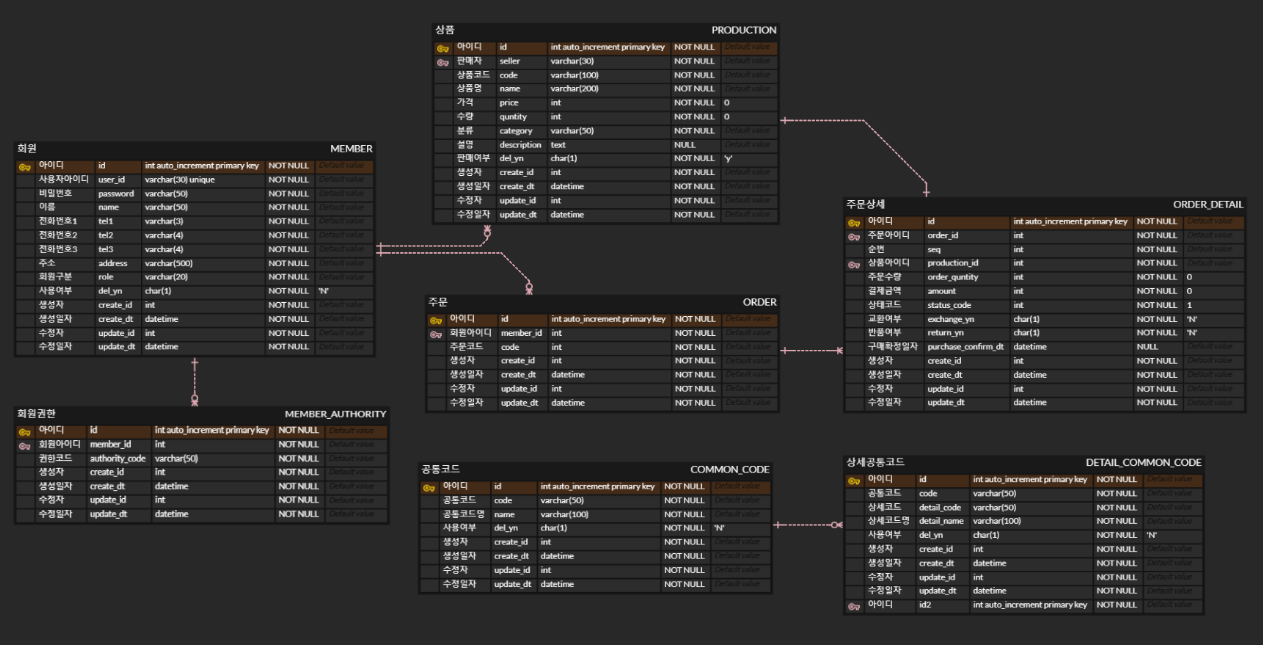
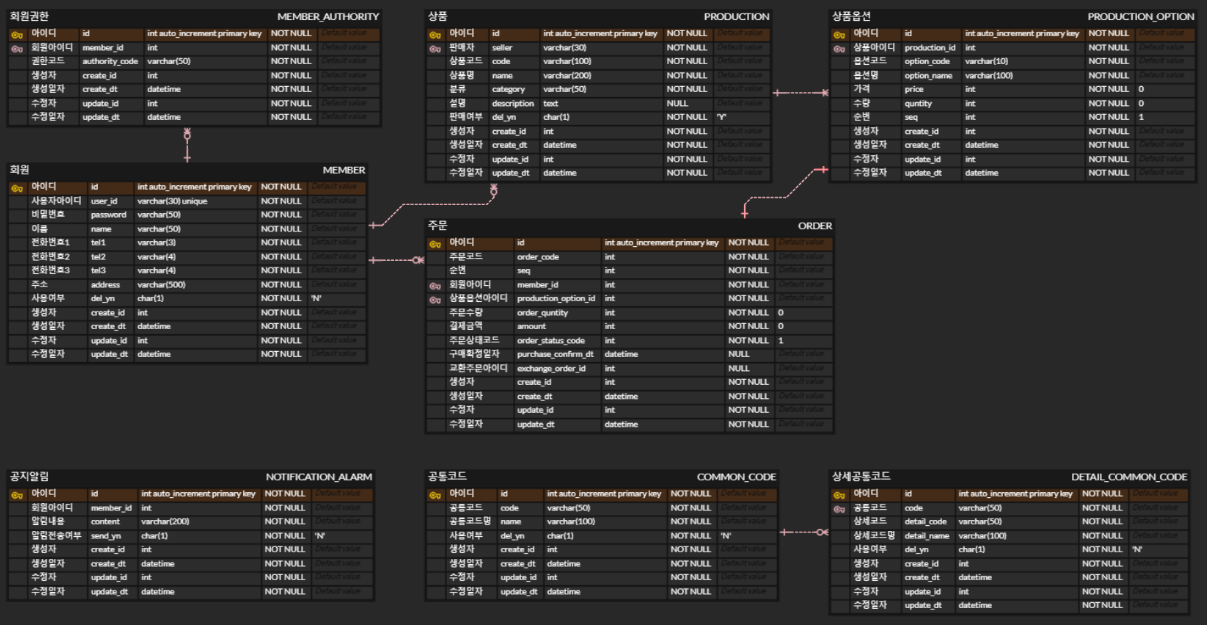
docs: 요구사항 상세정의 및 그에 따른 테이블구조변경 / 주문상태 전이과정 축소
배송, 교환, 반품 과정의 상태 변경 api만 많이 생성하는 것은 의미가 없고 기간 내 상세내용 개발불가로 인해 최소화해 진행한다.

diff --git a/README.md b/README.md
@@ -3,7 +3,7 @@
 
 ## 개요
     간단한 이커머스 서비스 제공 프로젝트.
-
+    
     Goal : 상품을 구입가능한 서버를 구축한다.
 
     Use : Spring Boot
@@ -50,22 +50,25 @@
 ## < 프로젝트 요구사항 정의 >
 ### 1. 기본구현기능
     필요 테이블 : 회원테이블(판매자,고객 동시관리), 회원별권한테이블,
-                 상품테이블, 주문테이블, 주문상세테이블, 
+                 상품테이블, 상품옵션테이블, 주문테이블, 공지알림테이블,
                  공통코드테이블, 상세공통코드테이블
 
 #### 공통
 - [ ] **로그인**
-    - [ ] 아이디, 패스워드 정보가 일치해야 로그인 가능
+    - [ ] 아이디, 패스워드 정보 일치 시 로그인 가능
     - [ ] 로그인 시 토큰 발생
     - [ ] 로그인 시 토큰을 이용한 접근권한제어
         - 로그인하지 않은 고객은 상품 조회만 가능.
         - 로그인한 회원은 상품조회 외 페이지 접근가능. (단, 권한에 따른 접근페이지 상이)
-        - JWT, Filter 이용해 간략하게 진행
+        - JWT, Filter 이용해 간략하게 진행.
 - [ ] **로그아웃**
     - [ ] 생성된 토큰 삭제로 로그아웃처리(?)
 - [ ] 회원정보 수정
+    - 수정가능 데이터 : 비밀번호, 전화번호, 주소
 - [ ] 회원정보 삭제
+    - 회원정보 삭제여부='Y'로 변경해 논리적 삭제. 
 - [ ] 회원정보 조회
+    - 회원테이블의 컬럼 전체 조회가능. 
 - [ ] 로그생성
     - ERROR 로그 파일 별도 생성.
     - ERROR 외 로그 파일 생성.
@@ -77,82 +80,116 @@
 #### 판매자
 - [ ] 셀러(회원) 가입 
     - 회원 아이디는 unique.
-    - 회원가입 시 SELLER(판매자) 권한 부여. 
+    - 전화번호 중복불가 유효성검증.
+    - 입력데이터 : 사용자아이디, 비밀번호, 이름, 전화번호, 주소.
+    - 전체데이터 필수입력.
+    - 회원가입 시 삭제여부 = 'N'
     - 회원가입 시 SELLER(판매자) 권한 부여. (권한코드 종류가 많지 않으므로 공통코드로 관리)
 - [ ] 상품 등록 
     - 셀러 회원가입 후 등록가능.
+    - 입력데이터 : 상품코드, 상품명, 가격, 수량, 분류, 설명.
+    - 설명을 제외한 데이터는 필수입력.
+    - 상품등록 시 판매여부 = 'Y'
+    - 한 상품 등록 시 대한 여러 상품옵션 등록가능.
+    - 상품분류 도메인 : 1(여성의류) / 2(남성의류) / 3(패션잡화) / 4(뷰티) / 5(전자제품) / 6(아웃도어) / 7(유아용품) / 99(기타)   
+                     공통코드로 관리.
 - [ ] 상품 수정
     - 판매자 본인이 등록한 상품만 수정가능.
+    - 가격이 변경되거나 상품명 변경 시에는 상품을 수정하지 않고 새로 등록하도록 함.
+    - 수정가능 데이터 : 수량, 설명.
 - [ ] 상품 삭제 
-    - 판매자 본인이 등록한 상품만 삭제가능. 
+    - 판매자 본인이 등록한 상품만 삭제가능.
+    - 주문 테이블이 존재하므로 데이터 유지를 위해 삭제여부='Y'로 변경해 논리적 삭제.
+    - 상품 삭제 시 상품옵션도 논리적 삭제.
 - [ ] 주문내역 조회
-    - 날짜별 시간 테이블 목록 확인가능.
+    - 일자별 결제완료된 주문내역 조회가능.
+    - pageable 이용해 5건씩 출력.
+    - 최신 주문 순 정렬.
     - 본인이 등록한 상품에 대한 주문내역만 조회가능.
 - [ ] 주문 알림 
     - 10분 마다 결제완료된 상품이 있는 판매자에게 알림 전송. (배치처리)
-
-- [ ] 주문상태 수정 (배송관련처리)
-    - 배송준비중
-    - 배송중
-- [ ] 주문상태 수정 (반품관련처리)
-    - 수거요청
-    - 수거중
-    - 반품완료
-- [ ] 주문상태 수정 (교환관련처리)
-    - 수거요청
-    - 수거중
-    - 배송중
-    - 교환완료
+    - 판매자에게 알림을 전송하기 위해 공지테이블에 결제완료된 주문 건 수를 포함한 알림저장.
+    - ex) '상품명(상품코드)에 대한 3건의 주문이 있습니다.'
+- [ ] 주문상태수정 - 배송중 (배송관련처리)
+    - 주문상태 도메인 : 1(결제완료) / 2(배송중) / 3(배송완료) / 4(구매확정) / 5(결제취소)
+                     11(교환요청) / 12(교환완료)      
+                     21(반품요청) / 22(반품완료)      
+                     공통코드로 관리.
+    - 판매자 본인의 판매물품에 대한 결제완료된 주문에 대해 배송가능.
+    - 주문확인 후 상품에 대한 배송한 경우 판매자는 주문상태코드를 배송완료로 변경.
+- [ ] 주문상태수정 - 배송완료 (배송관련처리)
+  - 판매자 본인의 판매물품에 대한 배송중인 주문에 대해 배송완료가능.
+  - 배송중인 주문에 대해 판매자는 주문상태코드를 배송완료로 변경.
+- [ ] 주문상태수정 - 반품완료 (반품관련처리)
+    - 판매자 본인의 판매물품 주문에 대한 반품요청 건에 대해 상품을 반품받은 경우 반품완료처리 가능.
+    - 주문에 대한 반품완료 시 해당 상품에 대한 수량을 주문했던 수량만큼 증가.
+    - 반품완료 시 결제금액 환불.
+- [ ] 주문상태수정 - 교환완료 (교환관련처리) 
+    - 판매자 본인의 판매물품 주문에 대한 교환요청 건에 대해 상품을 교환해준 경우 교환완료처리 가능.
+    - 교환완료 처리 시 기존 주문건에 대한 상품옵션 수량증가 처리. (수량복구)
 
 ---
 #### 고객
 - [ ] 고객(회원) 가입
     - 회원 아이디는 unique.
-    - 회원가입 시 CUSTOMER(소비자) 권한 부여.
+    - 전화번호 중복불가 유효성검증.
+    - 입력데이터 : 사용자아이디, 비밀번호, 이름, 전화번호, 주소.
+    - 전체데이터 필수입력.
+    - 회원가입 시 삭제여부 = 'N'
     - 회원가입 시 CUSTOMER(소비자) 권한 부여. (권한코드 종류가 많지 않으므로 공통코드로 관리)
 - [ ] **상품 검색**
     - 권한에 관계없이 검색가능.  
     - 키워드를 입력받아 LIKE 검색.
-    - 조회 시 5건씩 출력. (Pageable)
+    - pageable 이용해 5건씩 출력.
+    - 정확도순으로 기본 정렬    
+      LIKE 검색으로 일치하는 글자수가 많은 순서로 정렬.   
+      mysql 문자열 검색 적합도 순으로 정렬예정.
+    - 판매여부='Y'인 상품에 대해서만 검색가능.
 - [ ] 상품상세정보 조회
-  - 권한에 관계없이 조회가능.
+    - 권한에 관계없이 조회가능.
+    - 조회 정보 : 상품ID, 판매자, 상품코드, 상품명, 분류, 설명, 상품ID에 해당하는 상품옵션목록.
 - [ ] **장바구니에 상품추가**
     - 로그인 한 회원만 장바구니에 상품추가 가능.
+    - 상품상세정보 조회 화면에서 상품추가 가능.
+    - 상품추가를 위해 옵션 및 수량 필수 선택.
+    - 입력 데이터 : 상품옵션ID, 구매수량
     - redis 캐싱 기능 이용해 구현.
 - [ ] **장바구니에서 상품삭제**
     - 고객 본인의 장바구니 상품만 삭제가능.
     - redis 캐싱 기능 이용해 구현.
 - [ ] **장바구니 상품목록 조회**
     - 고객 본인의 장바구니 상품만 조회가능.
+    - 품절된 상품, 판매하지않는 상품에 대해 주문불가하도록 판매가능여부='Y'로 설정해 전달.
+    - 판매가능한 상품에 대해 주문가능하도록 판매가능여부='N'로 설정해 전달.
     - redis 캐싱 기능 이용해 구현.
 - [ ] 상품 주문
-    - 상품주문은 상품상세정보 페이지에서 가능.
     - 상품주문을 위해 회원가입 필수.
-    - 상품주문 시 필요정보 :  상품id, 상품수량, 주문자, 주문일시
+    - 상품주문은 상품상세정보 페이지에서 가능.
+    - 품절된 상품, 판매하지않는 상품(판매가능여부='Y')에 대해 주문불가처리.
+    - 주문하려는 상품의 재고가 판매가능한 재고보다 많은 경우 주문불가.
+    - 상품이 주문된 경우 판매재고량 감소.
+    - 상품주문 시 필요정보 : 상품id, 상품수량, 주문자, 주문일시
 - [ ] 상품 결제
     - PG사 연동 결제 api를 이용한 결제서비스 생성해 결제진행.
+    - 결제 실패 시 상품주문을 취소처리.
     - 동시성제어 필요여부확인 후 개발진행.
     - 참고블로그   
       https://velog.io/@jonghyun3668/%EA%B2%B0%EC%A0%9C-%EA%B3%BC%EC%A0%95-%EC%9D%B4%ED%95%B4%ED%95%98%EA%B8%B0PG%EC%82%AC-%EC%97%B0%EB%8F%99
     - 결제 완료 후 주문상태 '결제완료'로 변경.
-
 - [ ] 상품 주문취소
     - 결제완료되고 배송중이지 않은 상품에 대해 결제취소가능.
-- [ ] 상품 교환신청
-    - 배송완료된 상품에 대해 교환신청가능. (교환요청)
+    - PG사 연동 결제 api를 이용한 결제서비스 생성해 결제취소진행.
 - [ ] 상품 반품신청
-    - 배송완료된 상품에 대해 반품신청가능. (반품요청)
+    - 배송완료된 상품에 대해 반품요청가능.
+- [ ] 상품 교환신청
+    - 배송완료된 상품에 대해 교환요청가능.
+    - 동일 상품에 대해 옵션만 변경해 교환요청가능.
+    - 교환요청 시 동일상품에 대해 변경한 옵션에 신규주문생성.
+    - 기존주문 데이터에 교환요청한 신규주문의 주문아이디 update. (주문테이블 교환주문아이디 입력)
+    - 상품에서 선택한 옵션에 대한 금액이 상이한 경우, 추가결제 혹은 부분결제취소.   
+      (가능여부확인필요. 부분결제취소 불가한 경우 옵션별 동일할 수 있도록 상품등록 시 체크로직추가 필수.    
+       혹은 상품옵션테이블 가격정보 제거 및 상품테이블에 가격컬럼추가.)
 
----
-#### 배송업체
-- [ ] 회원 가입
-    - 회원 아이디는 unique.
-    - 회원가입 시 PARTNER(협력사) 권한 부여.
-    - 회원가입 시 PARTNER(협력사) 권한 부여. (권한코드 종류가 많지 않으므로 공통코드로 관리)
-- [ ] 배송중인 상품에 대한 배송완료처리
-    - 간단히 협력사에서 배송상태를 '배송완료' 처리하는 것으로 배송완료. (배송완료)
-- [ ] 주문상태 수정 (반품,교환 관련처리)
-    - 수거완료
 
 
   
